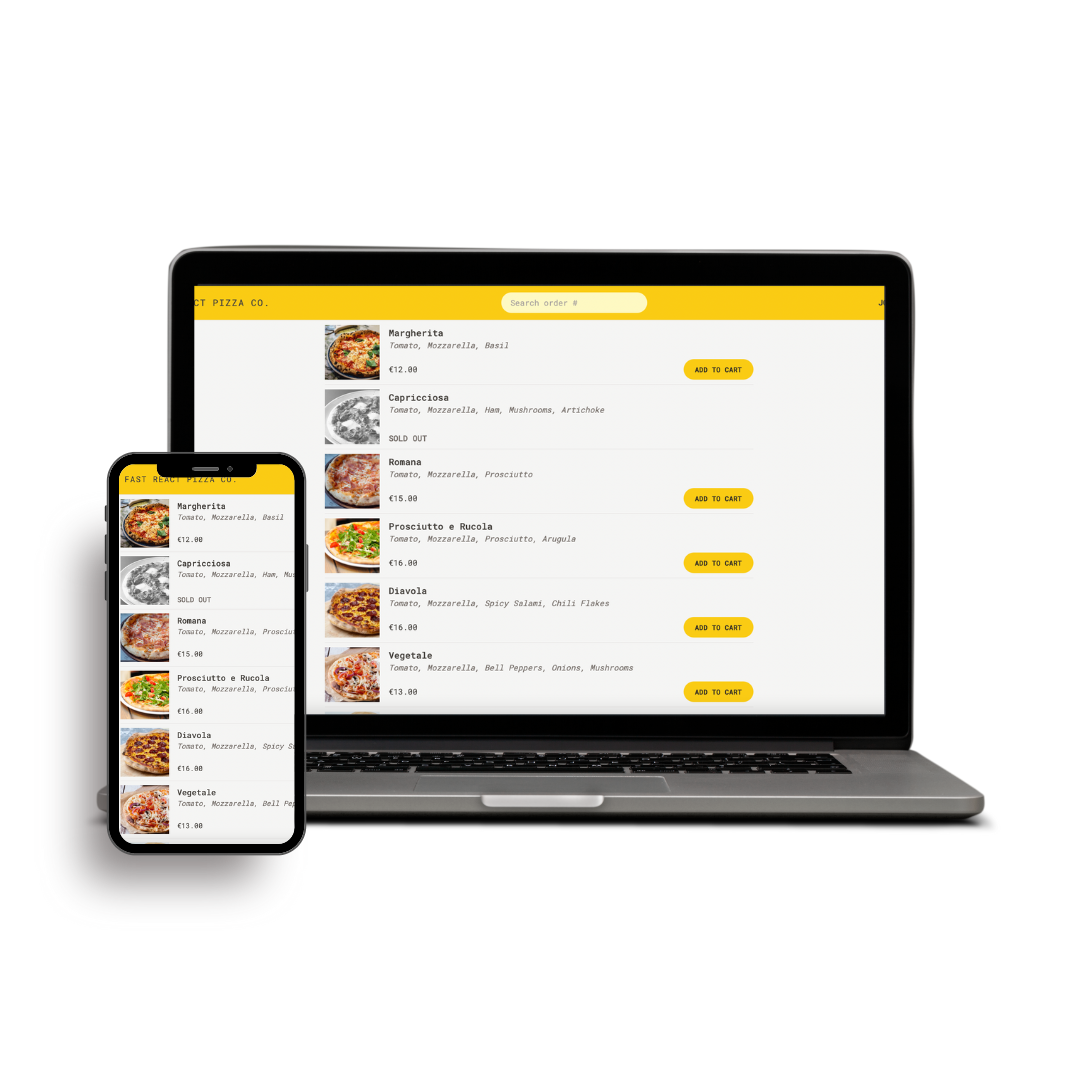
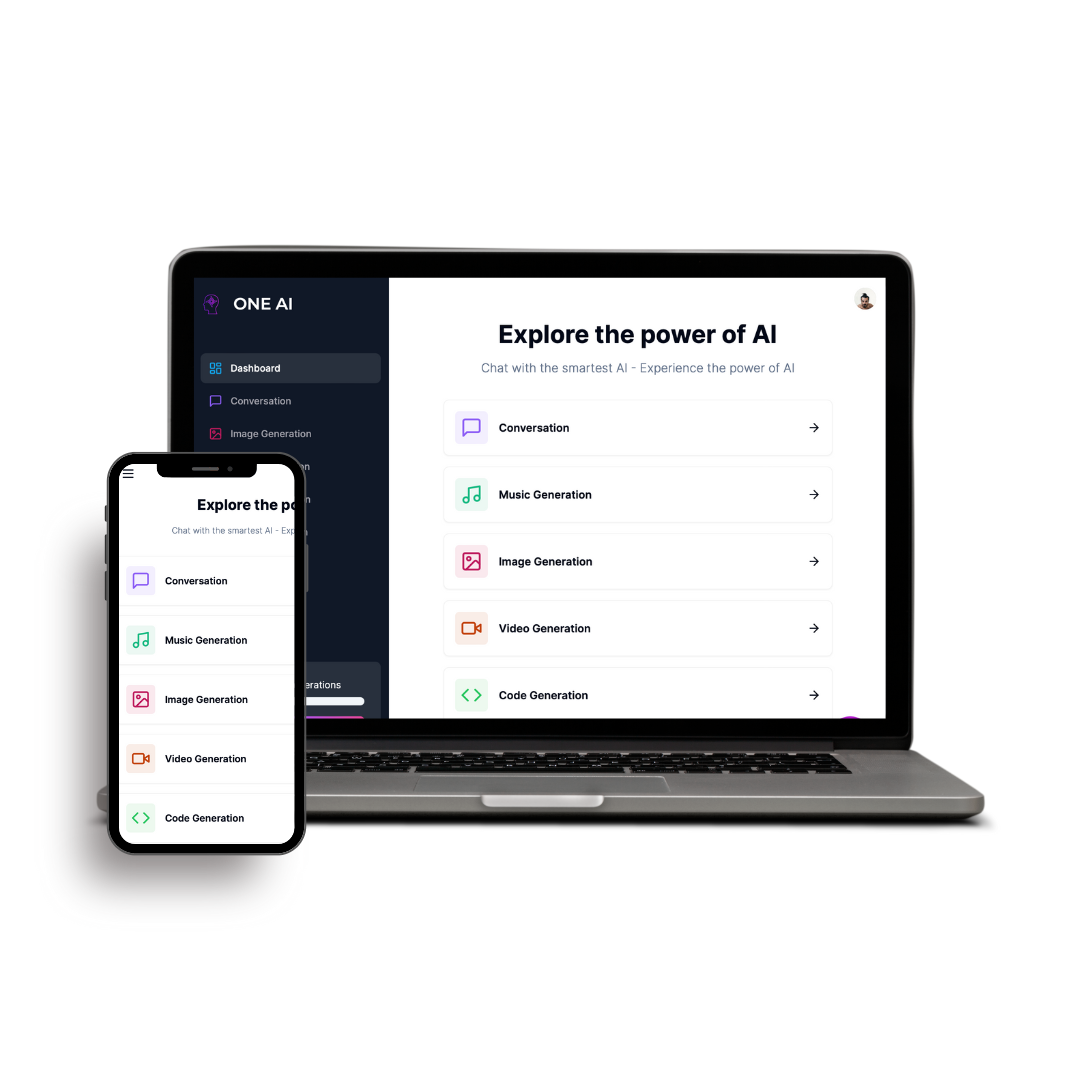
Updated

Changed region(s): [[0.0917, 0.2444, 0.825, 0.7944]]

diff --git a/src/assets/info/Info.js b/src/assets/info/Info.js
@@ -1,62 +1,62 @@
-import self from "../../assets/img/self.png";
-import mock1 from "../../assets/img/mock1.png";
-import mock2 from "../../assets/img/mock2.png";
-import mock3 from "../../assets/img/mock3.png";
-import mock4 from "../../assets/img/mock4.png";
+import self from '../../assets/img/self.png';
+import mock1 from '../../assets/img/mock1.png';
+import mock2 from '../../assets/img/mock2.png';
+import mock3 from '../../assets/img/mock3.png';
+import mock4 from '../../assets/img/mock4.png';
 
-export let colors = ["#ce3c50", "#0090ad"];
+export let colors = ['#ce3c50', '#0090ad'];
 
 export const info = {
-  firstName: "Daniel",
-  lastName: "Milad",
-  initials: "home",
-  position: "a Web Developer",
+  firstName: 'Daniel',
+  lastName: 'Milad',
+  initials: 'home',
+  position: 'a Web Developer',
   selfPortrait: self,
   gradient: `-webkit-linear-gradient(135deg, ${colors}`,
   baseColor: colors[0],
   miniBio: [
     {
-      emoji: "🎹",
-      text: "previously composer/audio engineer",
+      emoji: '🎹',
+      text: 'previously composer/audio engineer',
     },
     {
-      emoji: "🇦🇺",
-      text: "based in the Aus",
+      emoji: '🇦🇺',
+      text: 'based in the Aus',
     },
     {
-      emoji: "💼",
-      text: "freelancer",
+      emoji: '💼',
+      text: 'freelancer',
     },
     {
-      emoji: "📧",
-      text: "danmilad.code@gmail.com",
+      emoji: '📧',
+      text: 'danmilad.code@gmail.com',
     },
   ],
   socials: [
     {
-      link: "https://github.com/rahmsc",
-      icon: "fa fa-github",
-      label: "github",
+      link: 'https://github.com/rahmsc',
+      icon: 'fa fa-github',
+      label: 'github',
     },
     {
-      link: "https://www.linkedin.com/in/daniel-milad-7467731a4/",
-      icon: "fa fa-linkedin",
-      label: "linkedin",
+      link: 'https://www.linkedin.com/in/daniel-milad-7467731a4/',
+      icon: 'fa fa-linkedin',
+      label: 'linkedin',
     },
     {
-      link: "https://twitter.com/rahmsc_",
-      icon: "fa fa-twitter",
-      label: "twitter",
+      link: 'https://twitter.com/rahmsc_',
+      icon: 'fa fa-twitter',
+      label: 'twitter',
     },
     {
-      link: "mailto:danmilad.code@gmail.com",
-      icon: "fa fa-envelope",
-      label: "email",
+      link: 'mailto:danmilad.code@gmail.com',
+      icon: 'fa fa-envelope',
+      label: 'email',
     },
     {
-      link: "https://daniel-milad-resume.tiiny.site/",
-      icon: "fa fa-file",
-      label: "resume",
+      link: 'https://daniel-milad-resume.tiiny.site/',
+      icon: 'fa fa-file',
+      label: 'resume',
     },
 
     // Feel free to remove any of these that you don't have. I'll write an FAQ on how to add new ones later, let me know if you have a request for an icon!
@@ -64,89 +64,80 @@ export const info = {
   ],
   bio: (
     <>
-      Hello! I'm Daniel Milad. With previous experience at FinTech startup
-      INKPAY, I'm currently working as a freelancer.
+      Hello! I'm Daniel Milad. With previous experience at FinTech startup INKPAY, I'm currently
+      working as a freelancer.
       <br />
-      <br />I work with brands and businesses designing and developing front-end
-      solutions using ReactJS, complete solutions with the MERN stack, and web3
-      solutions using Solidity.
-      <br />
-      <br />
-      Within the web3 space, I'm a founder & project manager of the successful
-      NFT project 'Pink Flamingo Social Club' - the first multichain NFT
-      collection, and cultivated valueable partnerships with Multichain,
-      Chainlink and Polygon Studios to name a few.
+      <br />I work with brands and businesses designing and developing front-end solutions using
+      Next.JS, complete solutions with the MERN stack, and web3 solutions using Solidity.
       <br />
       <br />
-      I'm passionate about developing technology solutions that help empower
-      brands, artists, and communities to thrive using AI and Web3.
+      Within the web3 space, I'm a founder & project manager of the successful NFT project 'Pink
+      Flamingo Social Club' - the first multichain NFT collection, and cultivated valueable
+      partnerships with Multichain, Chainlink and Polygon Studios to name a few.
+      <br />
+      <br />
+      I'm passionate about developing technology solutions that help empower brands, artists, and
+      communities to thrive using AI and Web3.
     </>
   ),
   skills: {
     proficientWith: [
-      "javascript",
-      "react",
+      'typescript',
+      'javascript',
+      'nextjs',
+      'react',
 
-      "solidity",
-      "tailwindcss",
-      "html5",
-      "css3",
-      "figma",
-      "jira/confluence",
-      "adobe suite",
+      'solidity',
+      'tailwindcss',
+      'html5',
+      'css3',
+      'figma',
+      'jira/confluence',
+      'adobe suite',
     ],
-    exposedTo: [
-      "nodejs",
-      "expressjs",
-      "nextjs",
-      "typescript",
-      "mongodb",
-      "react native",
-      "python",
-      "SQL",
-    ],
+    exposedTo: ['nodejs', 'expressjs', 'mongodb', 'react native', 'python', 'SQL'],
   },
   hobbies: [
     {
-      label: "music production",
-      emoji: "🎧",
+      label: 'music production',
+      emoji: '🎧',
     },
     {
-      label: "cooking",
-      emoji: "🌶",
+      label: 'cooking',
+      emoji: '🌶',
     },
     {
-      label: "travel",
-      emoji: "🌎",
+      label: 'travel',
+      emoji: '🌎',
     },
     {
-      label: "exercise",
-      emoji: "🏃♀",
+      label: 'exercise',
+      emoji: '🏃♀',
     },
   ],
   portfolio: [
     {
-      title: "Wild Oasis - Hotel Mangement App",
-      live: "https://cabinbookingdemo.netlify.app/dashboard?last=7",
-      source: "https://github.com/rahmsc/Wild-Oasis-App",
+      title: 'Wild Oasis - Hotel Mangement App',
+      live: 'https://cabinbookingdemo.netlify.app/dashboard?last=7',
+      source: 'https://github.com/rahmsc/Wild-Oasis-App',
       image: mock1,
     },
     {
-      title: "Fast React Pizza Co. - Food Ordering App",
-      live: "https://fastreactpizzademo.netlify.app",
-      source: "https://github.com/rahmsc/Fast-React-Pizza-App",
+      title: 'ONE AI - An AI platform for all types of creations',
+      live: 'https://oneai-rahmsc.vercel.app',
+      source: 'https://github.com/rahmsc/oneai',
       image: mock2,
     },
     {
-      title: "WordWise - Travel Diary App using Leaflet",
-      live: "https://wheretotraveltheworld.netlify.app",
-      source: "https://github.com/rahmsc/worldwise-app",
+      title: 'WordWise - Travel Diary App using Leaflet',
+      live: 'https://wheretotraveltheworld.netlify.app',
+      source: 'https://github.com/rahmsc/worldwise-app',
       image: mock3,
     },
     {
-      title: "Forkify - Recipe Searching App",
-      live: "https://forkify-danmilad.netlify.app",
-      source: "https://github.com/rahmsc/forkify-fork",
+      title: 'Forkify - Recipe Searching App',
+      live: 'https://forkify-danmilad.netlify.app',
+      source: 'https://github.com/rahmsc/forkify-fork',
       image: mock4,
     },
   ],
